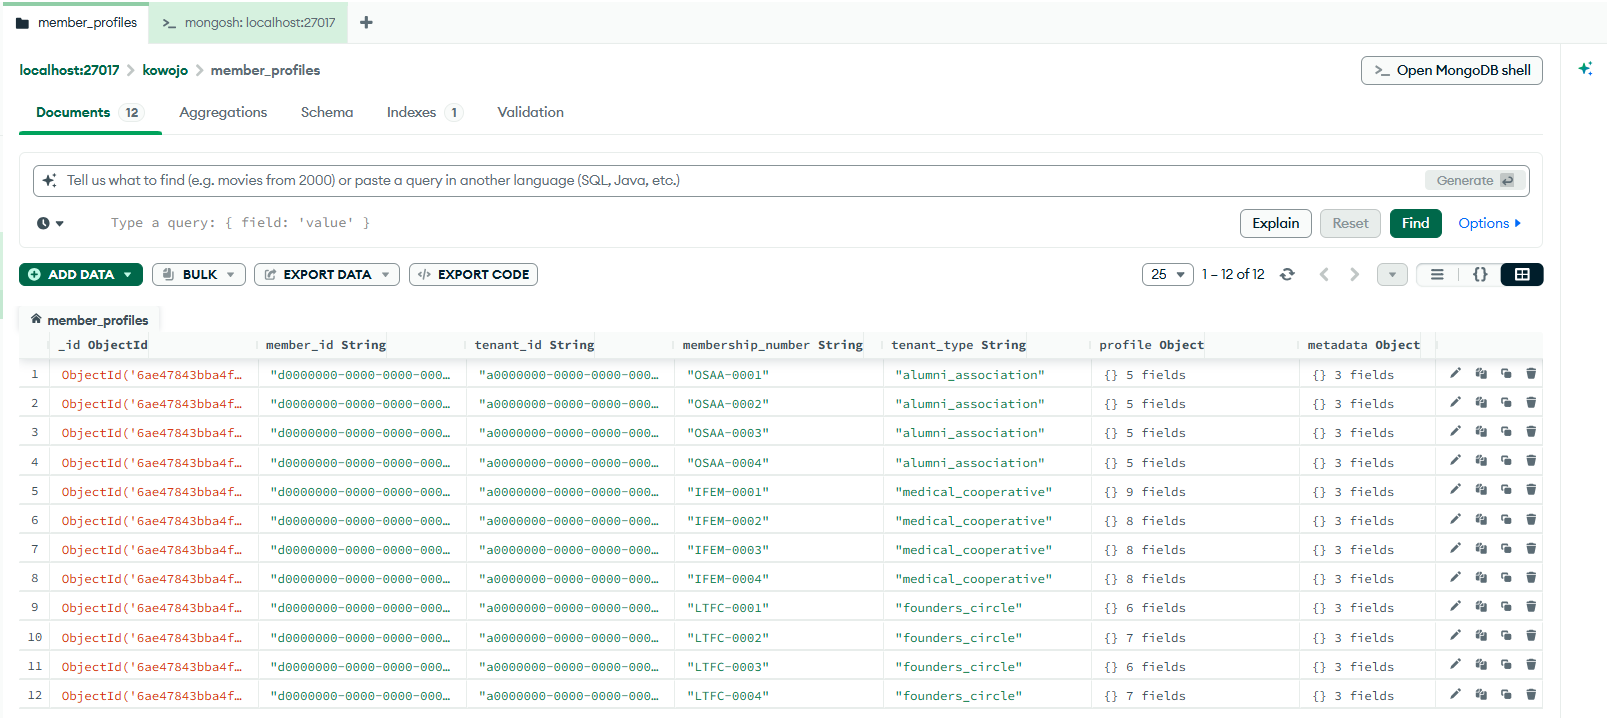
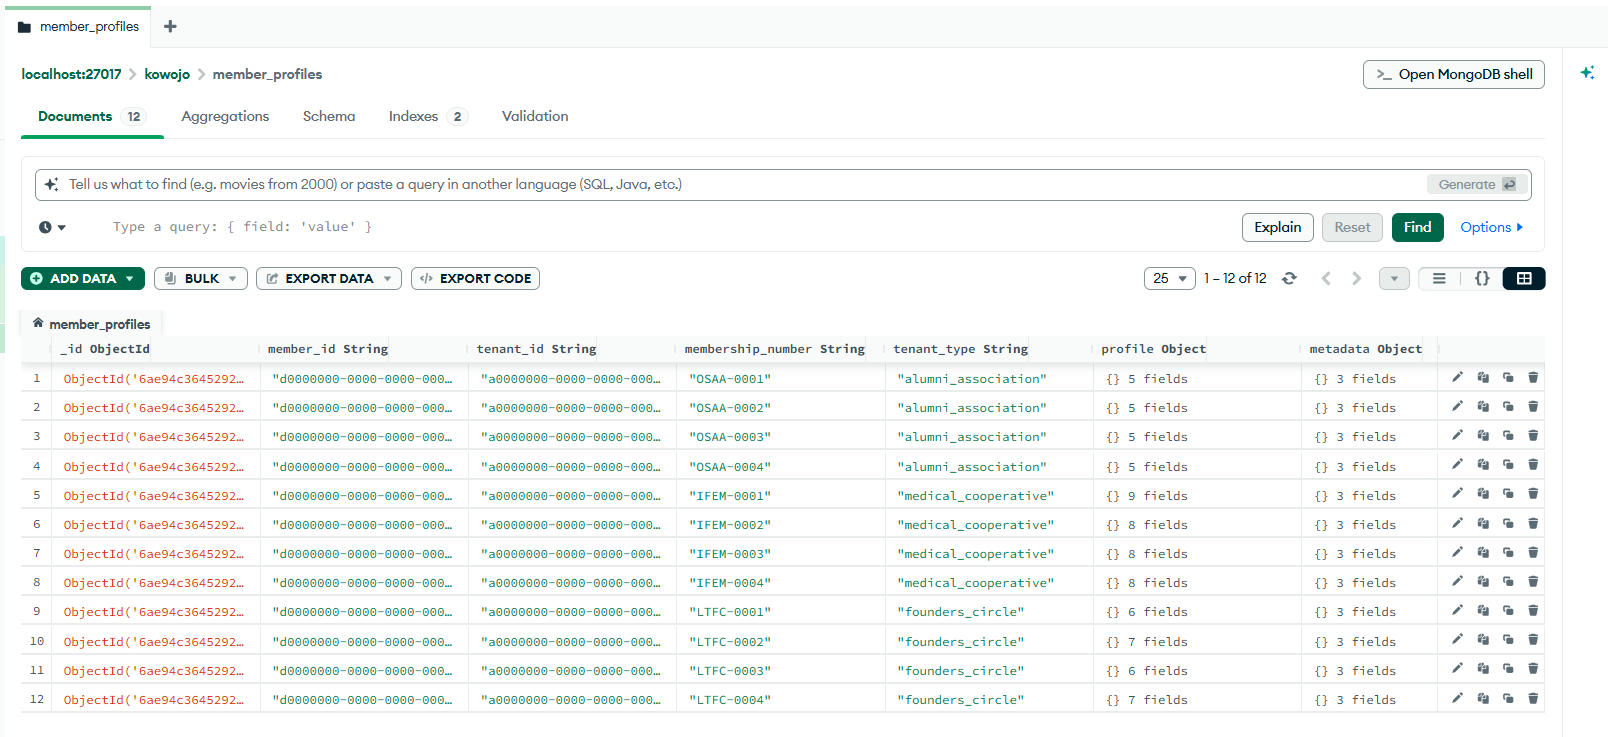
add index to member_id field

diff --git a/portfolio-4-nosql/seed.js b/portfolio-4-nosql/seed.js
@@ -7,6 +7,9 @@
 use('kowojo');
 
 db.member_profiles.drop();
+db.member_profiles.createIndex({ member_id: 1 }, { unique: true });
+print("\nCreated index on member_id...\n");
+
 print('\n-- Collection cleared. Inserting seed data...\n');
 
 
